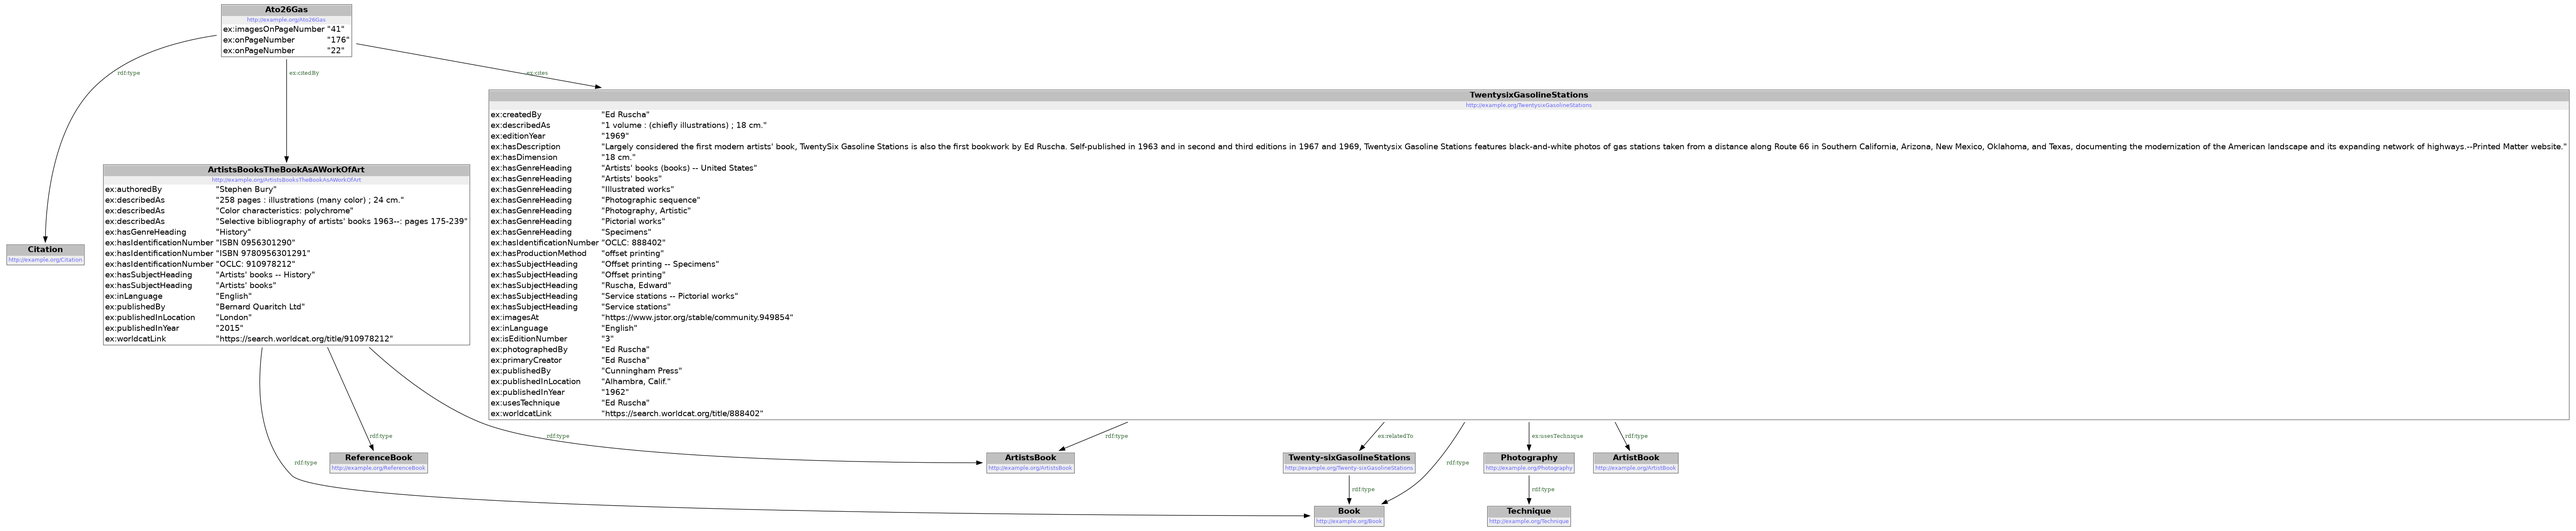
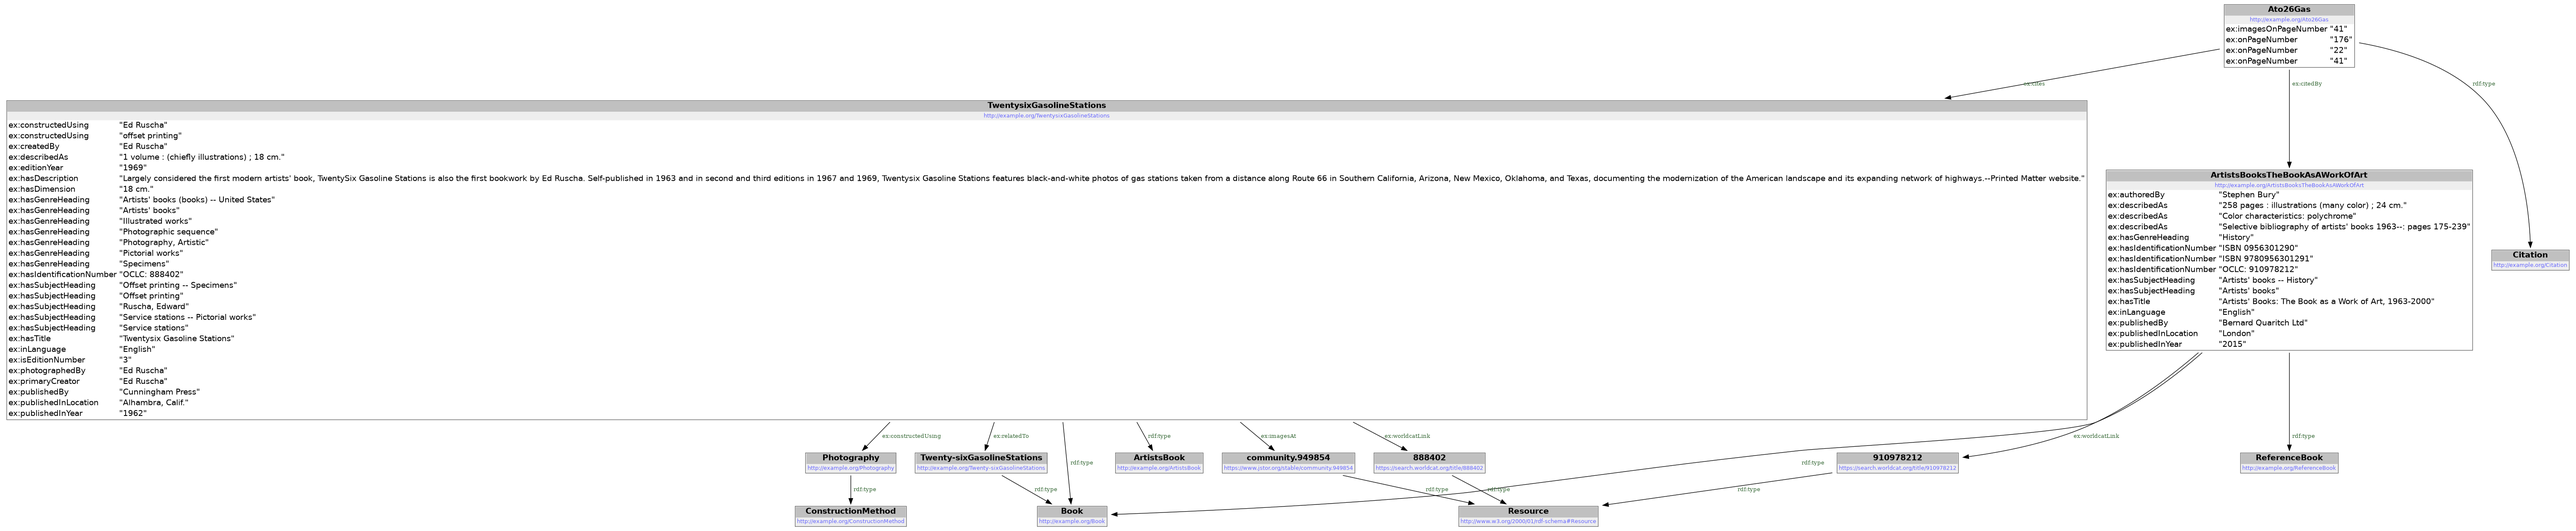
Enhance RDF descriptions for TwentysixGasolineStations and ArtistsBooks, adding titles and refining properties in vocab.ttl and inferred.ttl

diff --git a/notes.md b/notes.md
@@ -17,5 +17,6 @@ why is it says both books are rdf type book, artistbook, and referencebook?
 -fixed
 
 ask jj about copyright using thumbnail image
+  thumbnails are all good; VRA has rules around image size and quality and use
 faceted browsing - random sample as many as can fit
 look at getty images and shutterstock image search interface
